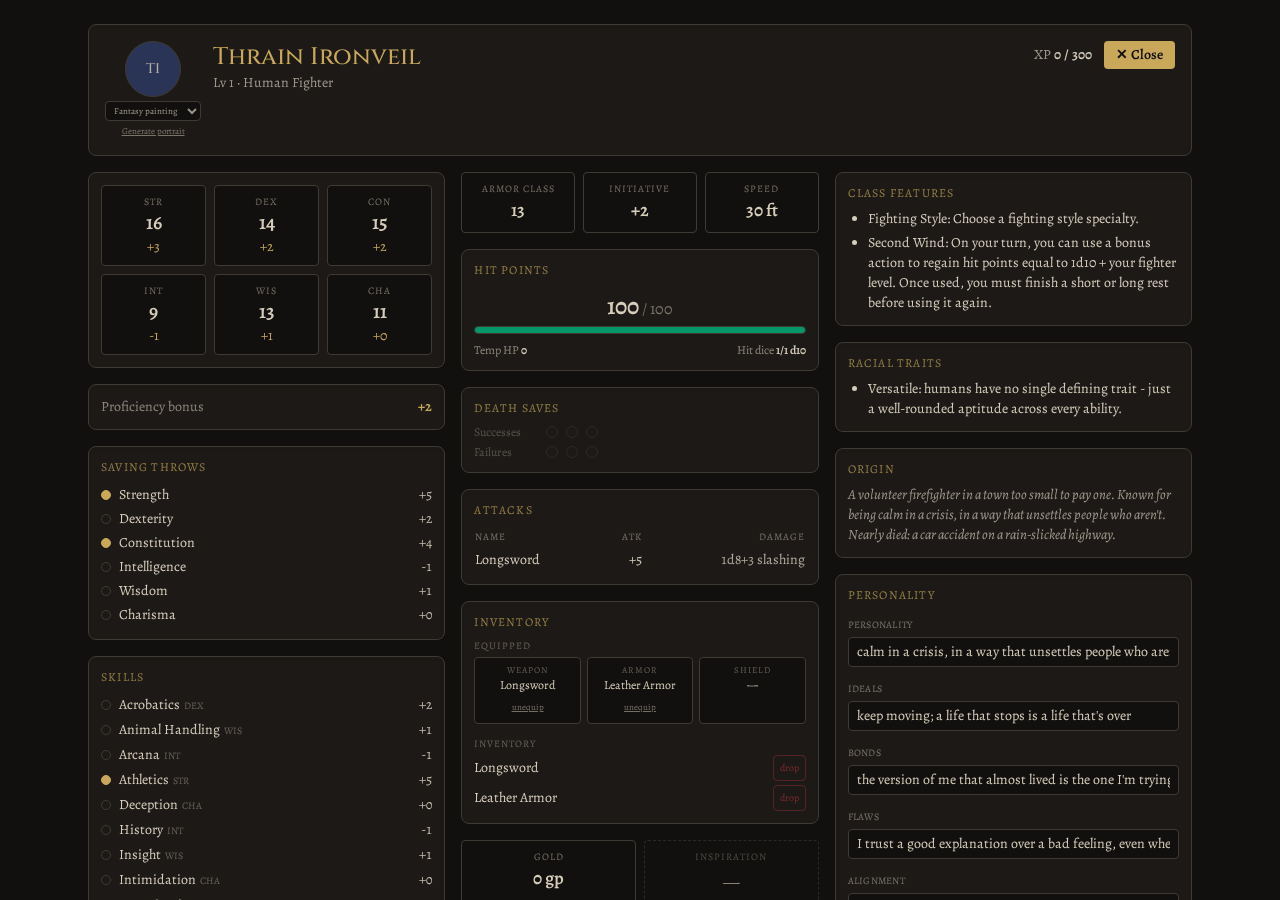
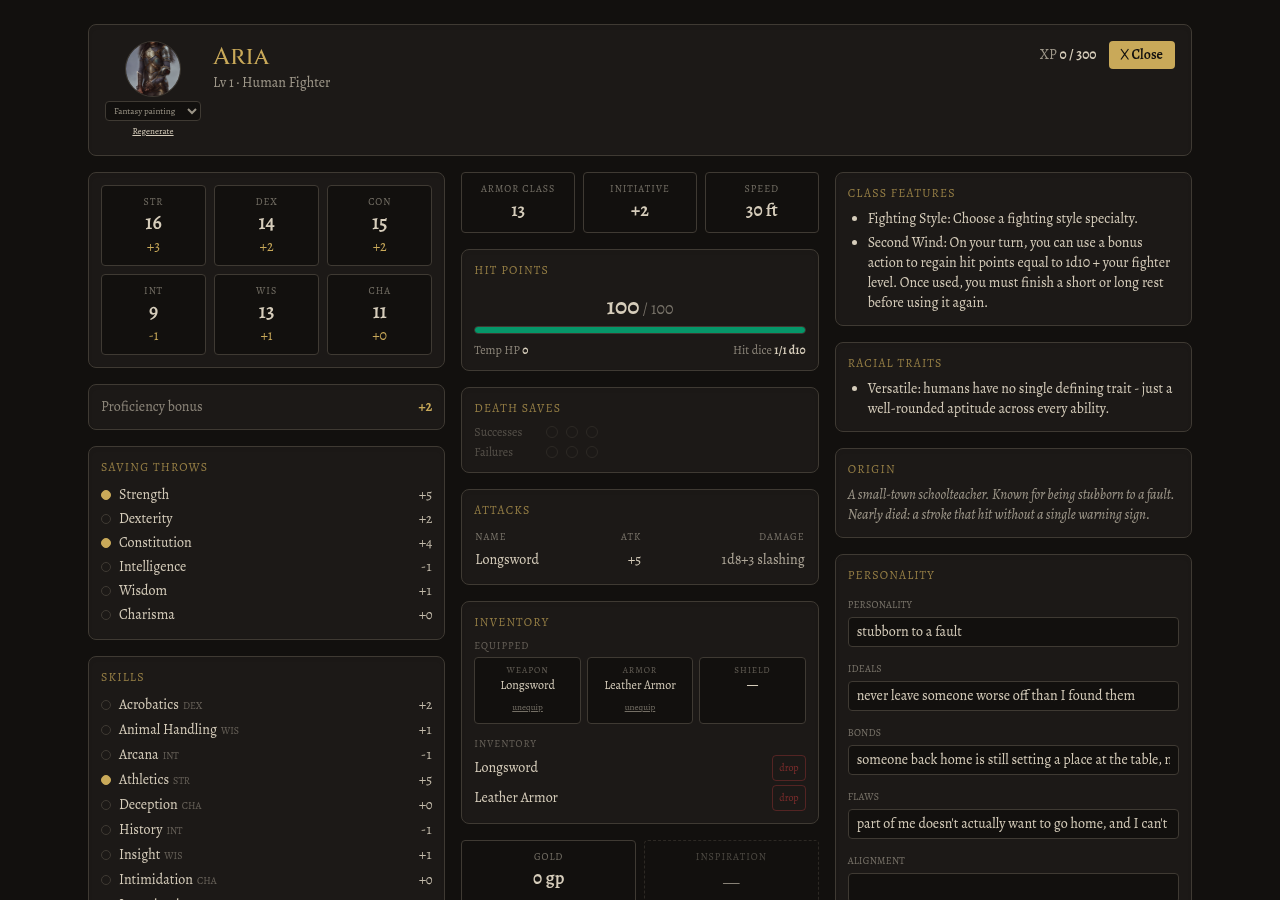
Refresh screenshots with real image generation, verify ComfyUI on real GPU
First real-GPU verification of ComfyUIBackend's portrait-generation
pipeline (previously only checked against a fake client in unit tests),
against a real NVIDIA GPU reached over the LAN. Updated character-sheet
and combat screenshots to reflect current state (real generated portrait,
Tinder companion NPC visible mid-session), added a new screenshot for the
portrait-generation-in-progress state, and corrected docs/protocol.md's
stale "no GPU hardware available" note.

diff --git a/CHANGELOG.md b/CHANGELOG.md
@@ -7,6 +7,7 @@ only open work.
 
 ## v2 rebuild and after (2026-08)
 
+- **First real-GPU verification of `ComfyUIBackend`, plus refreshed screenshots.** The base portrait-generation pipeline (checkpoint loader → CLIP encode → sampler → VAE decode) had only ever been checked against a fake ComfyUI client/websocket in unit tests, for lack of GPU hardware — this closes that gap. Generated a real portrait end-to-end against a real ComfyUI instance on a real NVIDIA GPU (RTX 2080, 8GB VRAM, `v1-5-pruned-emaonly-fp16.safetensors`) and captured it live in the character sheet, alongside a real in-progress "Generating..." state and a refreshed combat screenshot showing the Tinder companion NPC joined mid-session. See `docs/protocol.md`'s portrait-generation section for what's still unverified (the optional LoRA/hi-res-fix/face-detail quality passes). (2026-09-15)
 - **Companion NPC: "Tinder", a preset DM-controlled party companion players can add or dismiss at will.** Closes the "give the project something real to dogfood live sessions against" gap named in `docs/superpowers/specs/2026-09-13-companion-npc-design.md` - deliberately not a new companion system, just the existing NPC/personality machinery (`CharacterSheet`, `_public_character_view`, per-turn DM prompting) pointed at one curated character whose personality is motivated by Aetherfall's own central mechanic (the Veil took their sense of fear, not bolted-on comic relief). New symmetric `add_companion`/`remove_companion` events (`{}`, any joined player, both idempotent, same shape as `start_combat`/`end_combat`) create Tinder's sheet once and toggle `Session.companion_joined` rather than ever deleting it. While joined, a `_companion_prompt_block` rides the existing per-turn `world_summary` channel to ask for occasional in-character banter and, rarely, a small impulsive chaos beat with a real narrative consequence - plus a separate pacing nudge once `Session.turns_since_world_change` crosses `COMPANION_STALE_WORLD_TURNS` (6, deliberately uncalibrated pending live play). Visibility: Tinder is the one tracked NPC broadcast through the same redacted `_public_character_view` a real player gets of another, not a full sheet dump, via a new `CharacterSheet.is_companion` check in `_npc_view()`. `npc_update` gained an optional `joined` field and `state_sync` gained `companion_joined`. Not built: no HP/combat/turn participation, no multi-persona roster, no player-editable companion personality. See `docs/protocol.md`'s "Companion NPC" section. (2026-09-13)
 - **`PollinationsImageBackend` — a free, no-API-key third `ImageBackend` option** (`IMAGE_BACKEND=pollinations`, alongside `comfyui`/`openai`), for exercising portrait/scene generation in this GPU-less dev environment without a ComfyUI install or a paid OpenAI key. Deliberately targets Pollinations.ai's legacy anonymous endpoint (`image.pollinations.ai/prompt/...`), not the newer metered `gen.pollinations.ai` API that spends Pollen credits through a real key — that endpoint's own docs state no signup/API key is required and Flux generation on it is unconditionally free, so no key is ever sent, sidestepping any account-level billing/quota setting entirely rather than trusting it to stay free. Live-verified: a real portrait generated and inspected, no key used. See `.env.example`'s new "Image backend" section. (2026-09-13)
 - **Long-session `world.summary` cadence measured — ROADMAP's "long-session memory frequency" question answered for qwen2.5:7b.** New `--long` flag on `scripts/live_world_reliability_check.py` (22-turn `SCENARIO_LONG`: two full quest arcs plus neutral chatter/rest/shopping turns, interleaved rather than back-to-back, and a `summary_cadence_stats` helper tracking which turns `world.summary` actually changed) — extends the existing 5-turn `SCENARIO` harness rather than a new script, same `WorldTurnResult`/engine setup. Live result against qwen2.5:7b, single run: `update_world` fired only 1/22 turns, and `world.summary` was **never set across the whole session** (longest gap = 22, the entire run). Secondary location/objective correctness also dropped to 55% (12/22), well under the short scenario's 100%-on-qwen3:8b figure. Confirms the DM's willingness to call `update_world` at all falls off sharply once a session runs long and isn't a tightly scripted quest arc — not just a `summary`-specific gap. **Recommendation: don't default `OLLAMA_WORLD_UPDATES` on for qwen2.5:7b** — the call rate measured here is too low to rely on; the default stays opt-in. Not yet tested against qwen3:8b at this session length, which would distinguish a qwen2.5-specific gap from a general long-session phenomenon. See ROADMAP.md's "Long-session memory frequency" entry. (2026-09-13)

diff --git a/README.md b/README.md
@@ -144,23 +144,27 @@ Container Toolkit on the host — without it Ollama silently runs on CPU).
 
 ## Screenshots
 
-Real captures of the live app with two real players sharing a session — join screen, a live character sheet with real computed stats (starting HP is a flat 100 for every character, a deliberate house rule), the tavern lobby with both party members, and a real fight with real DM dialogue (local Ollama backend).
+Real captures of the live app with two real players sharing a session — join screen, a live character sheet with a real AI-generated portrait (local Ollama + ComfyUI backends, generated on a real GPU), the tavern lobby with both party members, and a real fight with real DM dialogue.
 
 <p align="center">
   <img src="docs/images/screenshots/join.png" alt="Oracle join screen: character name, session id, class/race pickers" style="max-width: 100%; width: 900px;"><br>
   <sub>Join screen — pick a class/race or import a character, share the session id to play together</sub>
 </p>
 <p align="center">
-  <img src="docs/images/screenshots/character-sheet.png" alt="Oracle character sheet with real computed AC, saves, skills, and attacks, an avatar with a style picker, and the Equipped/Inventory split" style="max-width: 100%; width: 900px;"><br>
-  <sub>Every number on the sheet is computed by the server, not the model — the avatar, style picker, and Equipped/Inventory split are all live</sub>
+  <img src="docs/images/screenshots/portrait-generating.png" alt="Oracle character sheet mid-portrait-generation, showing the progress bar and Generating... label over a placeholder avatar" style="max-width: 100%; width: 900px;"><br>
+  <sub>Portrait generation in progress — real per-step progress from a real local ComfyUI instance, not a fake spinner</sub>
+</p>
+<p align="center">
+  <img src="docs/images/screenshots/character-sheet.png" alt="Oracle character sheet with real computed AC, saves, skills, and attacks, a real ComfyUI-generated avatar with a style picker, and the Equipped/Inventory split" style="max-width: 100%; width: 900px;"><br>
+  <sub>Every number on the sheet is computed by the server, not the model. The avatar is a real ComfyUI generation (first real-GPU verification of this backend), with the style picker, and Equipped/Inventory split all live</sub>
 </p>
 <p align="center">
   <img src="docs/images/screenshots/session.png" alt="Oracle tavern lobby with two real players in the same party, ready to start the adventure together" style="max-width: 100%; width: 900px;"><br>
   <sub>Two players, one party — same session id, one browser tab each</sub>
 </p>
 <p align="center">
-  <img src="docs/images/screenshots/combat.png" alt="Oracle live combat with real DM narration, a per-turn Turn order strip, a Party panel showing every player's HP at a glance, and the action-economy pips (Action, Bonus action, Reaction)" style="max-width: 100%; width: 900px;"><br>
-  <sub>Formal initiative in progress — the Turn order tracker and Party HP panel (both new), per-turn action economy pips, all driven by a real Ollama turn. The Combatants roster (NPC HP + range band) renders the same way once the DM tracks a monster — not pictured here, since this run's DM never introduced one</sub>
+  <img src="docs/images/screenshots/combat.png" alt="Oracle live combat with real DM narration, the Tinder companion NPC joined and dismissible, a per-turn Turn order strip, a Party panel showing every player's HP at a glance, and the action-economy pips (Action, Bonus action, Reaction)" style="max-width: 100%; width: 900px;"><br>
+  <sub>Formal initiative in progress — the Turn order tracker and Party HP panel, per-turn action economy pips, and the optional Tinder companion NPC (joined via the header button, redacted like a real teammate), all driven by a real Ollama turn. The Combatants roster (NPC HP + range band) renders the same way once the DM tracks a monster — not pictured here, since this run's DM never introduced one</sub>
 </p>
 
 ## The tool-call reliability investigation

diff --git a/docs/protocol.md b/docs/protocol.md
@@ -363,7 +363,7 @@ A direct owner ask, and a feature this project's own ROADMAP had already sketche
 - **Public, not owner-only.** `portrait` joins `_public_character_view` (`server/views.py`) - a character's appearance is the same kind of party-visible fact as name, class, or HP. A successful generation sends the usual private `character_update` to the owner plus the public `player_update` broadcast, the same pairing `equip`/`use_item` already trigger when they change something public.
 - **Client**: a shared `Avatar.jsx` (used by both `CharacterSheetFull.jsx` and `CharacterSheet.jsx`'s Overview tab) renders the portrait, or initials on a deterministic name-hashed color swatch when none exists yet, with a style `<select>` (`fantasy`/`anime`/`comic`/`realistic`, kept in sync by hand with `STYLE_PRESETS` - four fixed entries don't justify a server-announces-styles mechanism) and a "Generate portrait" / "Regenerate" button beneath it. A `portraitPending` flag (mirrors the existing `awaitingDM` pattern already used for narration generation) shows a progress bar - real percentage once a `portrait_progress` tick has arrived, an indeterminate sliver before the first one - cleared by either a `character_update` (success) or a warning `system_message` (failure), the same dual-clear rule `awaitingDM` already follows.
 - **Errors never crash - a plain warning `system_message`** ("Couldn't generate a portrait right now.") covers an unreachable backend, a missing checkpoint, or any other generation failure, matching every other DM/backend failure path in this codebase. No backend configured at all gets its own clear message ("Portrait generation isn't configured on this server.") rather than the generic failure text.
-- **Not built (yet)**: reference-photo upload (nightwire has this; deliberately deferred here, see above), and NPC portraits (player characters only, for now). None of the ComfyUI quality passes (LoRA/hi-res fix/face detail) have been run against real GPU hardware - this project currently has none available; the workflow graph shape is verified by unit tests against a fake ComfyUI client/websocket, not a real generation. Scene generation (below) has since shipped, reusing this exact `ImageBackend` pattern.
+- **Not built (yet)**: reference-photo upload (nightwire has this; deliberately deferred here, see above), and NPC portraits (player characters only, for now). **Real-GPU-verified 2026-09-15**: the base `ComfyUIBackend` pipeline (checkpoint loader → CLIP encode → sampler → VAE decode, `v1-5-pruned-emaonly-fp16.safetensors`) generated a real portrait end-to-end against a real NVIDIA GPU (RTX 2080, 8GB VRAM) for the first time - closing the gap this section used to describe ("no GPU hardware available"). The optional quality passes (LoRA/hi-res fix/face detail) remain unverified against real hardware - none were configured for that run; the workflow graph shape for those is still only checked by unit tests against a fake ComfyUI client/websocket. Scene generation (below) has since shipped, reusing this exact `ImageBackend` pattern.
 
 ## Scene banner generation
 
